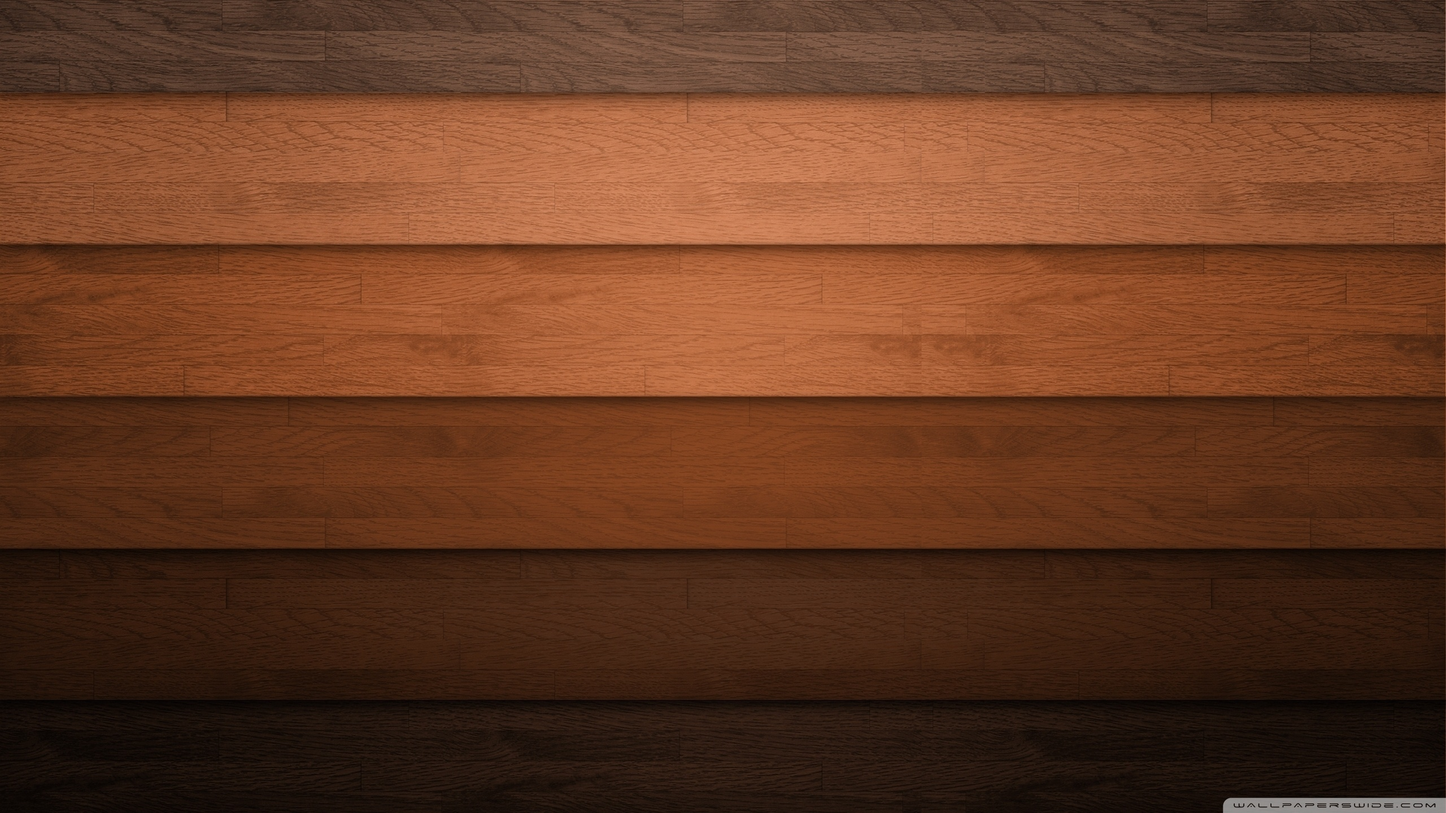
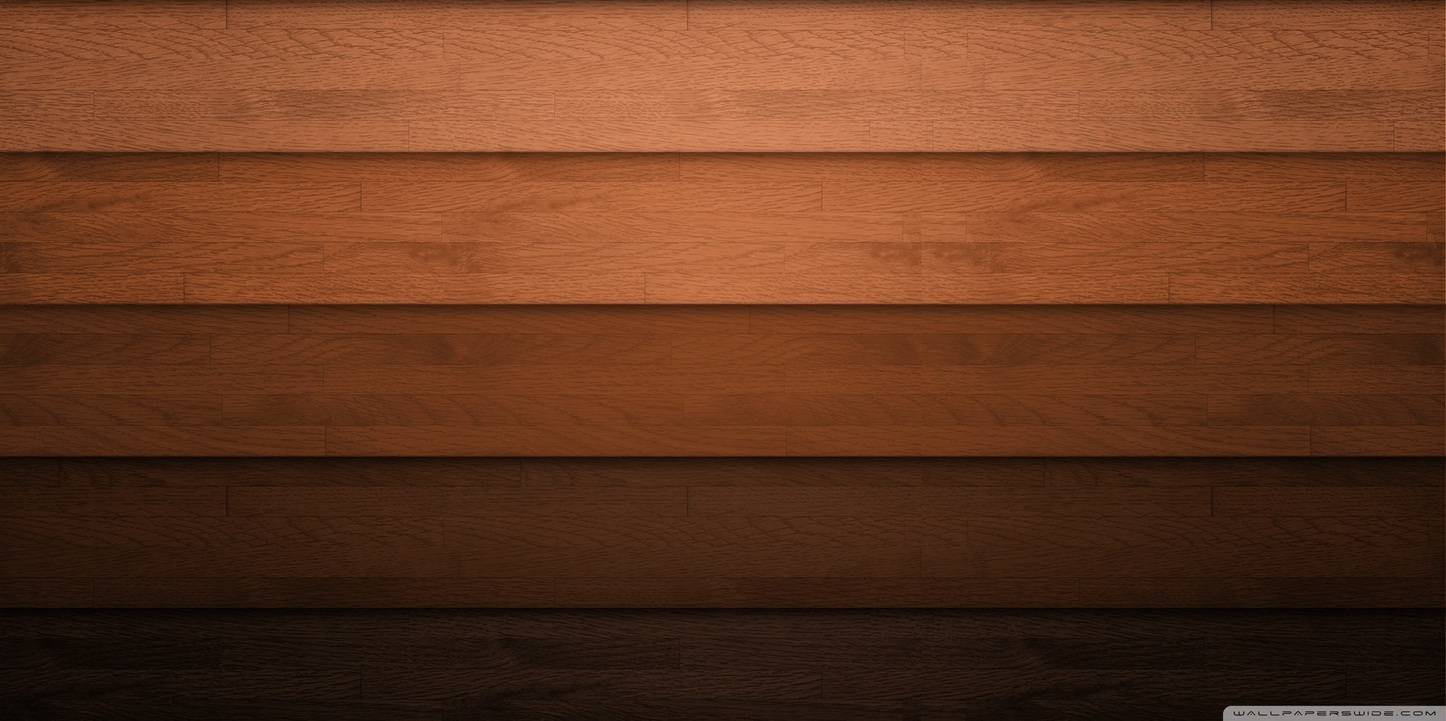
Added New Light Backgrounds

diff --git a/backup/navbar.html b/backup/navbar.html
@@ -1,0 +1,160 @@
+<!DOCTYPE html>
+<html lang="en">
+<head>
+    <meta charset="UTF-8">
+    <meta http-equiv="X-UA-Compatible" content="IE=edge">
+    <meta name="viewport" content="width=device-width, initial-scale=1.0">
+    <!-- Import Scripts-->
+    <script src="https://ajax.aspnetcdn.com/ajax/jQuery/jquery-3.2.1.min.js"></script>
+    <title>My Settings</title>
+    <!--Our styles scripts-->
+    <link rel="stylesheet" href="css/navbar.css">
+
+</head>
+<style>
+
+    #navbar-center{
+        display: grid;
+        /* border: 1px solid; */
+        align-items: center;
+        padding-top: var(--pxw-02);
+        padding-right: var(--pxw-03);
+        padding-left: var(--pxw-03);
+        padding-bottom:  var(--pxw-03);
+    }
+
+
+    #list-navbar-tab{
+        display: grid;
+        grid-template-columns: repeat(5,1fr);
+        justify-self: center;
+        padding: var(--pxw-01);
+        gap: 0;
+        width:90%;
+        justify-self: center;
+    }
+
+    .navbar-tab-item{
+        border: 1px solid;
+        display: grid;
+        grid-template-areas:  "TNAME" "TIMG" "TACTV";
+        gap: var(--pxw-01);
+        height: 100%;
+
+        
+    }
+
+
+    .navbar-tab-item-img{
+        grid-area: TIMG;
+        justify-self: center;
+        width: 45%;
+        border-radius: 15vh;
+        box-shadow: 0px 0px var(--pxh-03) rgba(172, 172, 172, 0.75);
+        z-index: 1;
+        cursor: pointer;
+    }
+    .navbar-tab-item-title{
+        border: 1px solid;
+        align-content: end;
+        font-size: 1.5vh;
+    }
+
+    .navbar-tab-item-title.selected,.navbar-tab-item-img.selected,.navbar-tab-item-activebar.selected{
+        opacity: 1;
+    }
+
+    .settings-item-title.navbar-tab-item-title {
+        text-align: center;
+        grid-area: TNAME;
+        text-shadow: 0px 0px var(--pxh-03) rgba(172, 172, 172, 0.75);
+        color: black;
+    }
+
+    .navbar-tab-item-activebar{
+        display: grid;
+        grid-area: TACTV;
+        background-color: black;
+        height: 1vh;
+        width: 1vh;
+        justify-self: center;
+        border-radius: 25vh;
+        box-shadow: 0px 0px var(--pxh-03) rgba(172, 172, 172, 0.75);
+        opacity: 0;
+    }
+
+</style>
+
+<body>
+    <div class="container-body" id='container-body'>
+
+        <!-- 1.MARGINS -->
+
+        <div class="margin navbar" id="margin-navbar-left">Navbar Margin Left</div>
+        <div class="margin navbar" id="margin-navbar-right">Navbar Margin Right</div>
+        <div class="margin app" id="margin-left">Margin Left</div>
+        <div class="margin app" id="margin-right">Margin Right</div>
+
+        <!-- 2.NAVBAR -->
+
+        <!-- Remember to change "tab-active" in div.activebar to the current tab> -->
+
+        <div class="navbar" id="navbar-left">
+            <div class="logoimg"><img src="assets/logoCropped.png" alt="logoimg"> </div>
+        </div>
+
+
+        <div class="navbar" id="navbar-center">
+                <div class="container-list" id="list-navbar-tab">
+                    <div class="navbar-tab-item" id="navbar-tab-item-My-Progress">
+                        <div class="settings-item-title navbar-tab-item-title" id="navbar-tab-item-title-My-Progress">My Progress</div>
+                        <img class="navbar-tab-item-img" id="navbar-tab-item-img-My-Progress" src="assets/tasks.png">    
+                        <div class="navbar-tab-item-activebar" id="navbar-tab-item-activebar-My-Progress"></div>
+                    </div>
+                    
+                    <div class="navbar-tab-item" id="navbar-tab-item-My-Statistics">
+                        <div class="settings-item-title navbar-tab-item-title" id="navbar-tab-item-title-My-Statistics">My Statistics</div>
+                        <img class="navbar-tab-item-img" id="navbar-tab-item-img-My-Statistics" src="assets/stats.png">    
+                        <div class="navbar-tab-item-activebar" id="navbar-tab-item-activebar-My-Statistics"></div>
+                    </div>
+        
+                    <div class="navbar-tab-item" id="navbar-tab-item-My-Timer">
+                        <div class="settings-item-title navbar-tab-item-title selected" id="navbar-tab-item-title-My-Timer">My Timer</div>
+                        <img class="navbar-tab-item-img selected" id="navbar-tab-item-img-My-Timer" src="assets/timer.png">    
+                        <div class="navbar-tab-item-activebar selected" id="navbar-tab-item-activebar-My-Timer"></div>
+                    </div>
+                    
+                    <div class="navbar-tab-item" id="navbar-tab-item-My-Music">
+                        <div class="settings-item-title navbar-tab-item-title" id="navbar-tab-item-title-My-Music">My Music</div>
+                        <img class="navbar-tab-item-img" id="navbar-tab-item-img-My-Music" src="assets/music.png">    
+                        <div class="navbar-tab-item-activebar" id="navbar-tab-item-activebar-My-Music"></div>
+                    </div>
+                    
+                    <div class="navbar-tab-item" id="navbar-tab-item-My-Settings">
+                        <div class="settings-item-title navbar-tab-item-title" id="navbar-tab-item-title-My-Settings">My Settings</div>
+                        <img class="navbar-tab-item-img" id="navbar-tab-item-img-My-Settings" src="assets/settings.png">    
+                        <div class="navbar-tab-item-activebar" id="navbar-tab-item-activebar-My-Settings"></div>
+                    </div>
+                </div>
+        </div>
+
+
+
+        <div class="navbar" id="navbar-right">Navbar Right</div>
+
+        <!-- 3.MAIN APP -->
+
+        <!-- A0 -->
+
+        <div class="app-div" id="app-a0">
+            <div class="app-container" id="container-a0">
+                My Settings
+            </div>
+        </div>
+        
+</body>
+
+<script src="scripts/main.js"></script>
+<script src="scripts/settings-logic.js"></script>
+
+</html>

diff --git a/css/music.css b/css/music.css
@@ -156,12 +156,13 @@ border-radius: var(--pxh-50);
 
 #navbar-left {
     grid-area: N1;
+    display: grid; /* Fixed the issue */
+    grid-template-columns: 40vh auto; /* Fixed the issue */
 }
 
 .logoimg img{
     display: block;
     position: relative;
-    /* top: -0.5vh; */
     width:65%;
 }
 
@@ -169,21 +170,23 @@ border-radius: var(--pxh-50);
 
 #navbar-center{
     grid-area: N2;
+    display: grid;
 }
 
 #container-main-navbar{
     display: grid;
-    grid-template-rows: 1fr 5fr 1fr;
+    grid-template-rows: 1fr 3fr 1fr; /* Fixed the issue */
     grid-template-areas:
             "NC1" 
             "NC2"
             "NC3";
     padding-top:0.5vh;
-    }
+}
 
 .icon img{
     width:5vh;
     height:5vh;
+    border-radius: 25vh;
 }
 
 .navitem-name{
@@ -243,11 +246,12 @@ ul{
 } */
 
 .activebar .tab-active{
-    background-color: rgb(60, 60, 60);
-    border-radius: 50em;
+    background-color: rgb(41, 41, 41);
+    border-radius: 50vh;
     height: 1vh;
     width: 1vh;
     margin-top: 0vh;
+    box-shadow: 0px 0px var(--pxh-04) rgba(150, 150, 150, 0.5);
 }
 
 .activebar .tab-inactive{
@@ -545,7 +549,7 @@ li:not(.navitemlist li){
 
 #button-dismiss{
     color: rgb(175, 175, 175);
-    font-size: var(--font-size-3);
+    font-size: 0.9vw;
     margin-right: var(--pxw-05);
 
     /* align-self: center; */

diff --git a/scripts/main.js b/scripts/main.js
@@ -19,13 +19,14 @@ COLORS = Array.from(
 
 BACKGROUNDS = Array.from(
     [
-        {background_name: "Night Sky", src:"assets/imgs/img1.jpg"},
+        {background_name: "Mist", src:"assets/imgs/img1.jpg"},
         {background_name: "Trees", src:"assets/imgs/img2.jpg"},
         {background_name: "Sunset", src:"assets/imgs/img3.jpg"},
         {background_name: "Snow 1", src:"assets/imgs/img4.jpg"},
         {background_name: "Sea", src:"assets/imgs/img5.jpg"},
         {background_name: "Snow 2", src:"assets/imgs/img6.jpg"},
         {background_name: "Wood", src:"assets/imgs/img7.jpg"},
+        {background_name: "Clouds", src:"assets/imgs/img8.jpg"},
     ]);
 
 TABS = Array.from(

diff --git a/backup/navbar.css b/backup/navbar.css
@@ -141,6 +141,8 @@ border-radius: var(--pxh-50);
 
 #navbar-left {
     grid-area: N1;
+    display: grid;
+    grid-template-columns: 40vh auto;
 }
 
 .logoimg img{
@@ -148,6 +150,7 @@ border-radius: var(--pxh-50);
     position: relative;
     top: -0.5vh;
     width:65%;
+    border: 1px black solid;
 }
 
 /* NAVBAR CENTER - N2- NAV-ITEMS */
